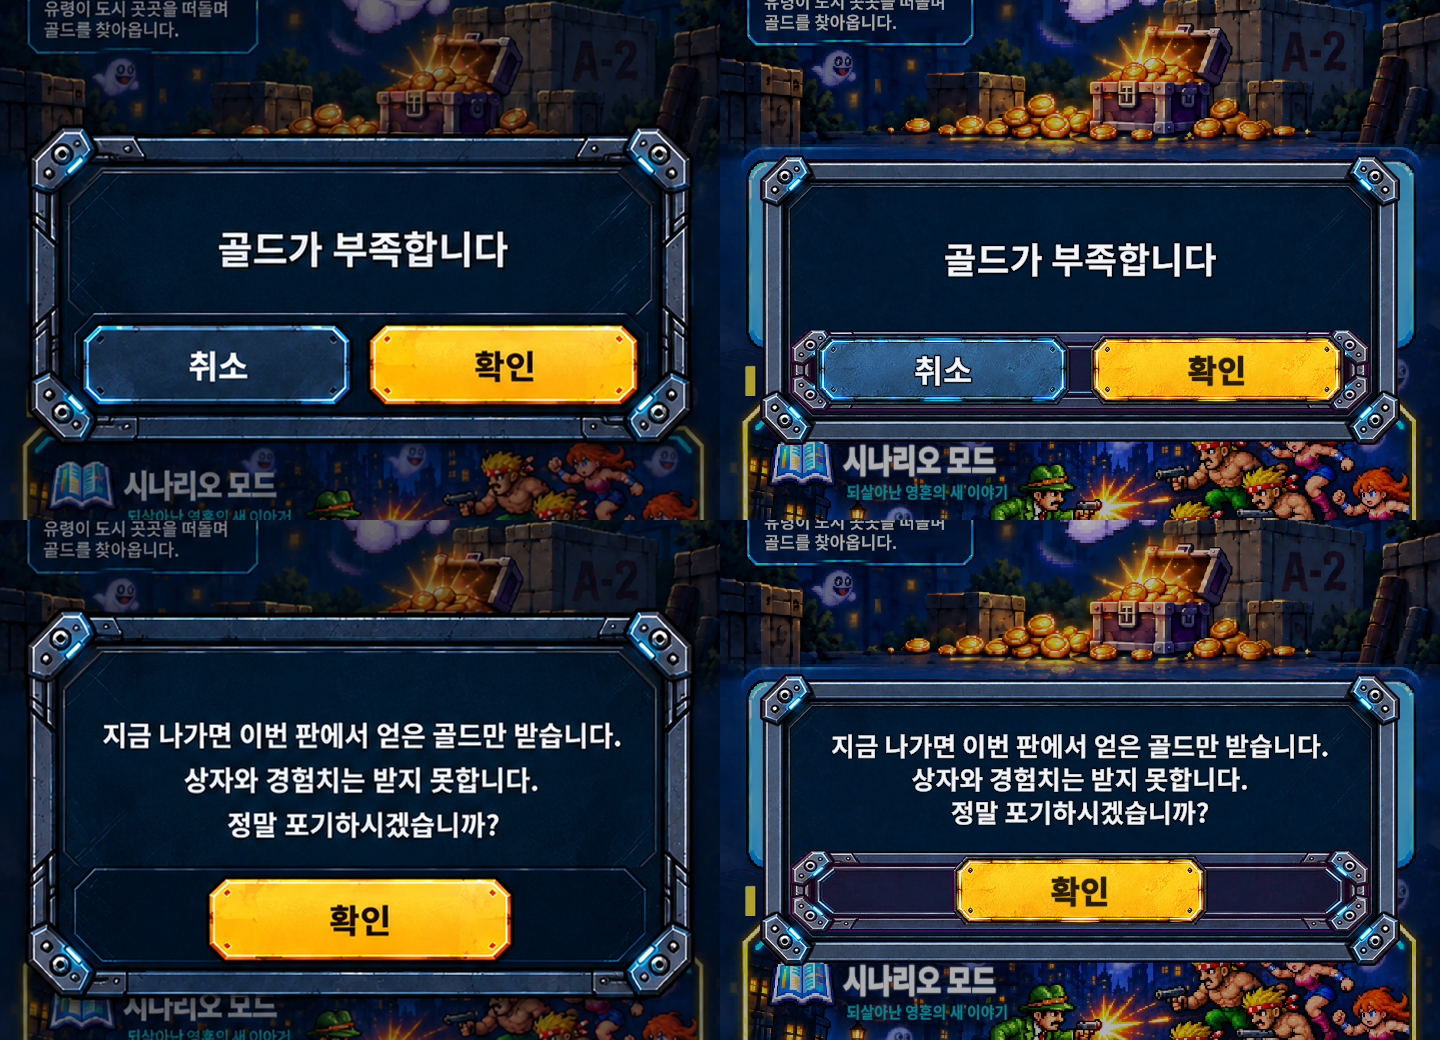
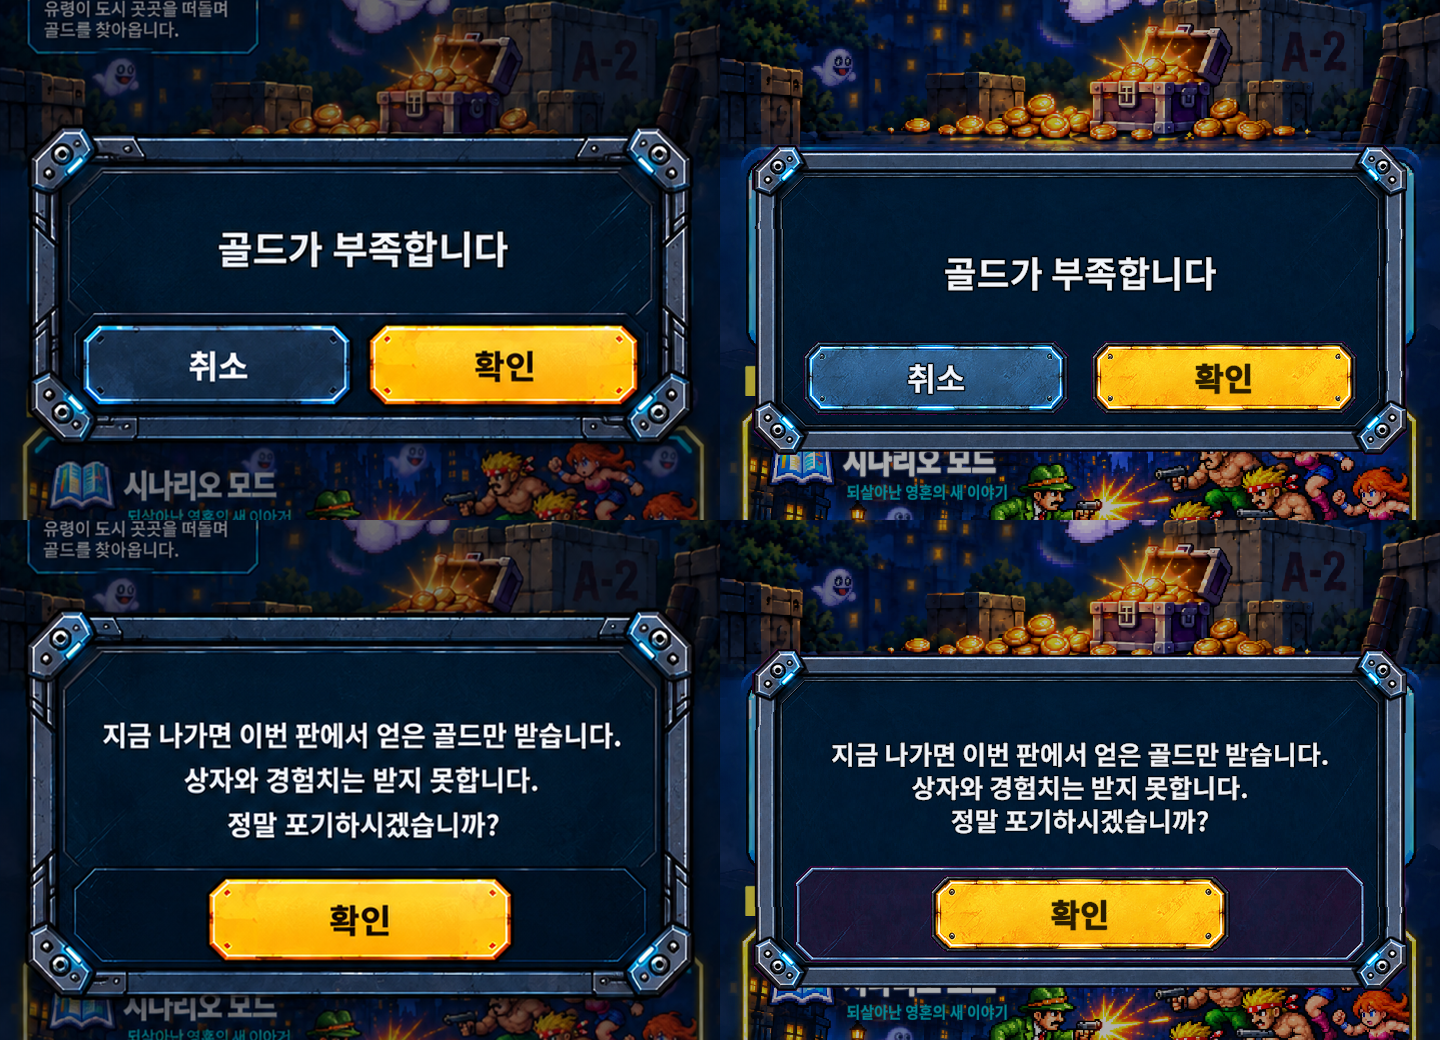
공통 팝업 — 시안(popup_mock_v2) 실측값으로 배치 · 버튼 하나일 때 얇은 홈
- 틀 655 · 한 줄 310 · 위 여백 90 · 버튼 가운데는 틀 아래에서 77 (720 폭에서 잰 값)
- 버튼 둘: 받침 없이 판 위에 바로 266x74, 간격 22
- 버튼 하나: 얇은 홈(popup_groove, 새 발주) 안에 300x78
- 볼트 달린 옛 받침(popup_tray)은 시안과 달라 뺐다 — 그림 · meta 삭제

diff --git a/Assets/Scripts/Module/Common/UI/SystemPopup.cs b/Assets/Scripts/Module/Common/UI/SystemPopup.cs
@@ -33,15 +33,17 @@ namespace Game.Module.Common.UI
         private const string AtlasAddress = "atlas/systempopup";
 
         // ── 자리(기준 해상도 720 x 1280) ──
-        private const float PanelWidth = 640f;          // 시안(popup_mock_v2)의 폭 — 화면 폭의 약 89%
-        private const float PanelMinHeight = 290f;
-        /// <summary>틀 안쪽 여백 — 글이 금속 테두리에 닿지 않게.</summary>
-        private const float PadTop = 56f, PadSide = 48f, PadBottom = 34f;
-        private const float TextGap = 22f;          // 본문과 버튼 받침 사이
-        private const float TrayHeight = 82f;         // 받침 그림의 높이(500 x 81) — 세로로는 늘리지 않는다
-        private const float TrayInset = 30f;        // 받침 좌우가 틀 안쪽에서 들어간 만큼
-        private const float ButtonWidth = 256f, ButtonHeight = 71f;   // 290 x 80 버튼의 비율
-        private const float ButtonGap = 18f;
+        // 값은 시안(popup_mock_v2)을 720 폭에서 잰 것이다(2026-10-06).
+        private const float PanelWidth = 655f;
+        private const float PanelMinHeight = 310f;
+        /// <summary>틀 안쪽 여백 — 틀 윗변 금속 띠가 두꺼워 위는 넉넉히.</summary>
+        private const float PadTop = 90f, PadSide = 48f;
+        private const float TextGap = 30f;          // 본문과 버튼(또는 홈) 사이
+        private const float ButtonCenterY = 77f;    // 틀 아랫변에서 버튼 가운데까지
+        /// <summary>버튼 둘은 판 위에 바로, 하나는 얇은 홈 안에 조금 크게 — 시안 그대로.</summary>
+        private const float PairWidth = 266f, PairHeight = 74f, PairGap = 22f;
+        private const float SingleWidth = 300f, SingleHeight = 78f;
+        private const float GrooveHeight = 96f, GrooveInset = 42f;
         /// <summary>짧은 한 줄은 시안처럼 크게, 여러 줄 · 긴 글은 한 단계 작게(시안의 3줄 알림).</summary>
         private const float BodyFontSize = 36f, LongFontSize = 26f;
         /// <summary>뒤 화면 어둡게 — 코덱스 검수 「50~55%」. 어디서 불렸는지 알아볼 만큼만.</summary>
@@ -130,7 +132,8 @@ namespace Game.Module.Common.UI
         {
             if (_artApplied || s_atlas == null) return;
             var frame = s_atlas.GetSprite("popup_frame");
-            var tray = s_atlas.GetSprite("popup_tray");
+            // 버튼 하나일 때의 얇은 홈. 없으면 홈 없이 뜬다(볼트 달린 옛 받침은 시안과 달라 뺐다)
+            var tray = s_atlas.GetSprite("popup_groove");
             var ok = s_atlas.GetSprite("popup_button_confirm");
             var cancel = s_atlas.GetSprite("popup_button_cancel");
             if (frame == null || ok == null || cancel == null) return;   // 하나라도 빠지면 색 상자 그대로
@@ -138,7 +141,7 @@ namespace Game.Module.Common.UI
             // 틀 한 장이 테두리와 판을 다 들고 있다 — 색 상자 둘(테두리색 바깥 + 판색 안쪽)은 걷는다
             Sliced(_panelImage, frame);
             _panelFill.enabled = false;
-            if (tray != null) { Sliced(_tray, tray); _tray.enabled = true; }
+            if (tray != null) Sliced(_tray, tray);
             Simple(_confirmImage, ok);
             Simple(_cancelImage, cancel);
             _confirmLabel.color = new Color(0.16f, 0.10f, 0.02f, 1f);
@@ -177,38 +180,47 @@ namespace Game.Module.Common.UI
             if (isLong) _message.fontSize = LongFontSize;
             var pref = _message.GetPreferredValues(_message.text, textWidth, 0f);
             float textHeight = Mathf.Max(_message.fontSize * 1.4f, pref.y);
-            float height = Mathf.Max(PanelMinHeight, PadTop + textHeight + TextGap + TrayHeight + PadBottom);
+
+            bool two = _cancel.gameObject.activeSelf;
+            // 본문 아래 끝 = 버튼(하나일 때는 홈) 위 끝
+            float bottomZone = ButtonCenterY + (two ? PairHeight : GrooveHeight) * 0.5f;
+            float height = Mathf.Max(PanelMinHeight, PadTop + textHeight + TextGap + bottomZone);
             _panel.sizeDelta = new Vector2(PanelWidth, height);
 
             var mrt = _message.rectTransform;
             mrt.anchorMin = new Vector2(0f, 1f);
             mrt.anchorMax = new Vector2(1f, 1f);
             mrt.pivot = new Vector2(0.5f, 1f);
-            // 본문 칸은 틀 위쪽 여백에서 받침 위까지 — 그 안에서 가운데로 앉는다
-            float bodyHeight = height - PadTop - TextGap - TrayHeight - PadBottom;
+            // 본문 칸은 틀 위쪽 여백에서 버튼 위까지 — 그 안에서 가운데로 앉는다
+            float bodyHeight = height - PadTop - TextGap - bottomZone;
             mrt.anchoredPosition = new Vector2(0f, -PadTop);
             mrt.sizeDelta = new Vector2(-PadSide * 2f, bodyHeight);
 
+            // 홈은 버튼 하나일 때만 — 시안의 버튼 둘은 판 위에 바로 앉는다
+            _tray.enabled = !two && _tray.sprite != null;
             var trt = _tray.rectTransform;
             trt.anchorMin = new Vector2(0f, 0f);
             trt.anchorMax = new Vector2(1f, 0f);
-            trt.pivot = new Vector2(0.5f, 0f);
-            trt.anchoredPosition = new Vector2(0f, PadBottom);
-            trt.sizeDelta = new Vector2(-TrayInset * 2f, TrayHeight);
+            trt.pivot = new Vector2(0.5f, 0.5f);
+            trt.anchoredPosition = new Vector2(0f, ButtonCenterY);
+            trt.sizeDelta = new Vector2(-GrooveInset * 2f, GrooveHeight);
 
-            bool two = _cancel.gameObject.activeSelf;
-            float y = PadBottom + TrayHeight * 0.5f;
-            float half = (ButtonWidth + ButtonGap) * 0.5f;
-            PlaceButton(_confirm.GetComponent<RectTransform>(), two ? half : 0f, y);
-            PlaceButton(_cancel.GetComponent<RectTransform>(), -half, y);
+            var confirm = _confirm.GetComponent<RectTransform>();
+            if (two)
+            {
+                float half = (PairWidth + PairGap) * 0.5f;
+                PlaceButton(confirm, half, PairWidth, PairHeight);
+                PlaceButton(_cancel.GetComponent<RectTransform>(), -half, PairWidth, PairHeight);
+            }
+            else PlaceButton(confirm, 0f, SingleWidth, SingleHeight);
         }
 
-        private static void PlaceButton(RectTransform rt, float x, float y)
+        private static void PlaceButton(RectTransform rt, float x, float w, float h)
         {
             rt.anchorMin = rt.anchorMax = new Vector2(0.5f, 0f);
             rt.pivot = new Vector2(0.5f, 0.5f);
-            rt.anchoredPosition = new Vector2(x, y);
-            rt.sizeDelta = new Vector2(ButtonWidth, ButtonHeight);
+            rt.anchoredPosition = new Vector2(x, ButtonCenterY);
+            rt.sizeDelta = new Vector2(w, h);
         }
 
         // ─────────────────────────────────────────────────────────

diff --git a/Projects/AVSR/Tools/popup_parts_fit.py b/Projects/AVSR/Tools/popup_parts_fit.py
@@ -5,12 +5,12 @@
 그림을 고치지 않는다 — 바탕 빼기 · 자르기 · 줄이기만 한다.
 
   in/popup_frame.png          → Assets/BaseResource/SystemPopup/popup_frame.png        (폭 600, 9-slice)
-  in/popup_tray.png           → Assets/BaseResource/SystemPopup/popup_tray.png         (폭 500, 가로 9-slice)
+  in/popup_groove.png         → Assets/BaseResource/SystemPopup/popup_groove.png       (폭 600, 9-slice — 버튼 하나짜리 알림의 얇은 홈)
   in/popup_button_cancel.png  → Assets/BaseResource/SystemPopup/popup_button_cancel.png (290 x 80 — 노란 버튼과 같은 크기)
   in/popup_button_confirm.png → Assets/BaseResource/SystemPopup/popup_button_confirm.png (290 x 80 — 취소와 짝)
   in/stat_icons_critdmg_def.png → Assets/BaseResource/Growth/icon_critdmg.png · icon_def.png (50 x 43 — 기존 능력치 아이콘 칸)
 
-쓰는 법: python Projects/AVSR/Tools/popup_parts_fit.py [frame|tray|cancel|confirm|icons ...]  (없으면 전부)
+쓰는 법: python Projects/AVSR/Tools/popup_parts_fit.py [frame|groove|cancel|confirm|icons ...]  (없으면 전부)
 """
 import os, sys
 from PIL import Image
@@ -68,9 +68,10 @@ def frame():
          os.path.join(OUT, 'popup_frame.png'))
 
 
-def tray():
-    save(fit_width(trim(key_out(Image.open(os.path.join(IN, 'popup_tray.png')))), 500),
-         os.path.join(OUT, 'popup_tray.png'))
+def groove():
+    """볼트 달린 받침(popup_tray)은 시안과 달라 뺐다(2026-10-06) — 시안의 버튼 하나짜리 알림은 얇은 홈이다."""
+    save(fit_width(trim(key_out(Image.open(os.path.join(IN, 'popup_groove.png')))), 600),
+         os.path.join(OUT, 'popup_groove.png'))
 
 
 def cancel():
@@ -97,6 +98,6 @@ def icons():
         save(canvas, os.path.join(GROWTH, name + '.png'))
 
 
-JOBS = {'frame': frame, 'tray': tray, 'cancel': cancel, 'confirm': confirm, 'icons': icons}
+JOBS = {'frame': frame, 'groove': groove, 'cancel': cancel, 'confirm': confirm, 'icons': icons}
 for job in (sys.argv[1:] or list(JOBS)):
     JOBS[job]()

diff --git a/Assets/Scripts/Editor/UIAssetPipeline.cs b/Assets/Scripts/Editor/UIAssetPipeline.cs
@@ -295,7 +295,7 @@ namespace Game.Editor
             var borders = new System.Collections.Generic.Dictionary<string, Vector4>
             {
                 { "popup_frame", new Vector4(84, 84, 84, 84) },
-                { "popup_tray", new Vector4(64, 0, 64, 0) },
+                { "popup_groove", new Vector4(24, 20, 24, 20) },   // 버튼 하나짜리 알림의 얇은 홈
             };
             foreach (var guid in AssetDatabase.FindAssets("t:Texture2D", new[] { Res }))
             {
